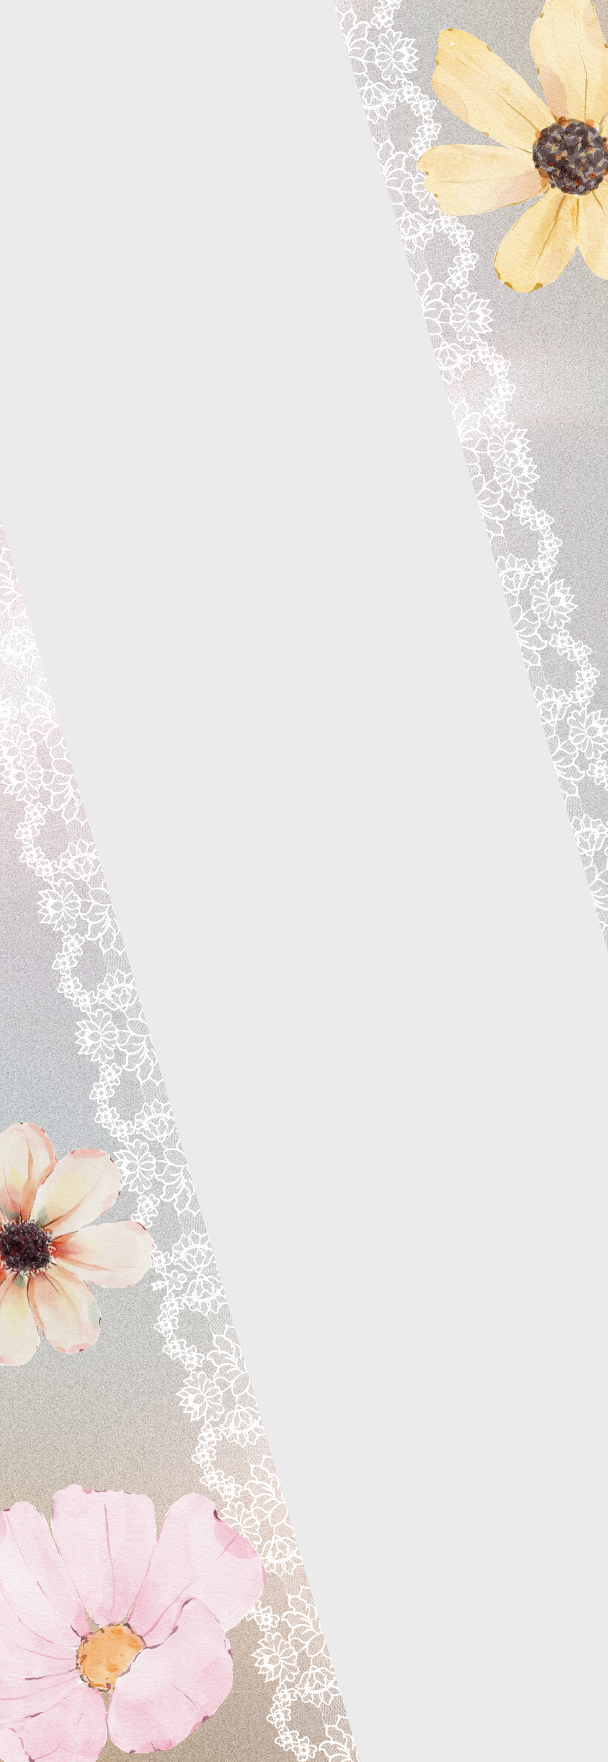
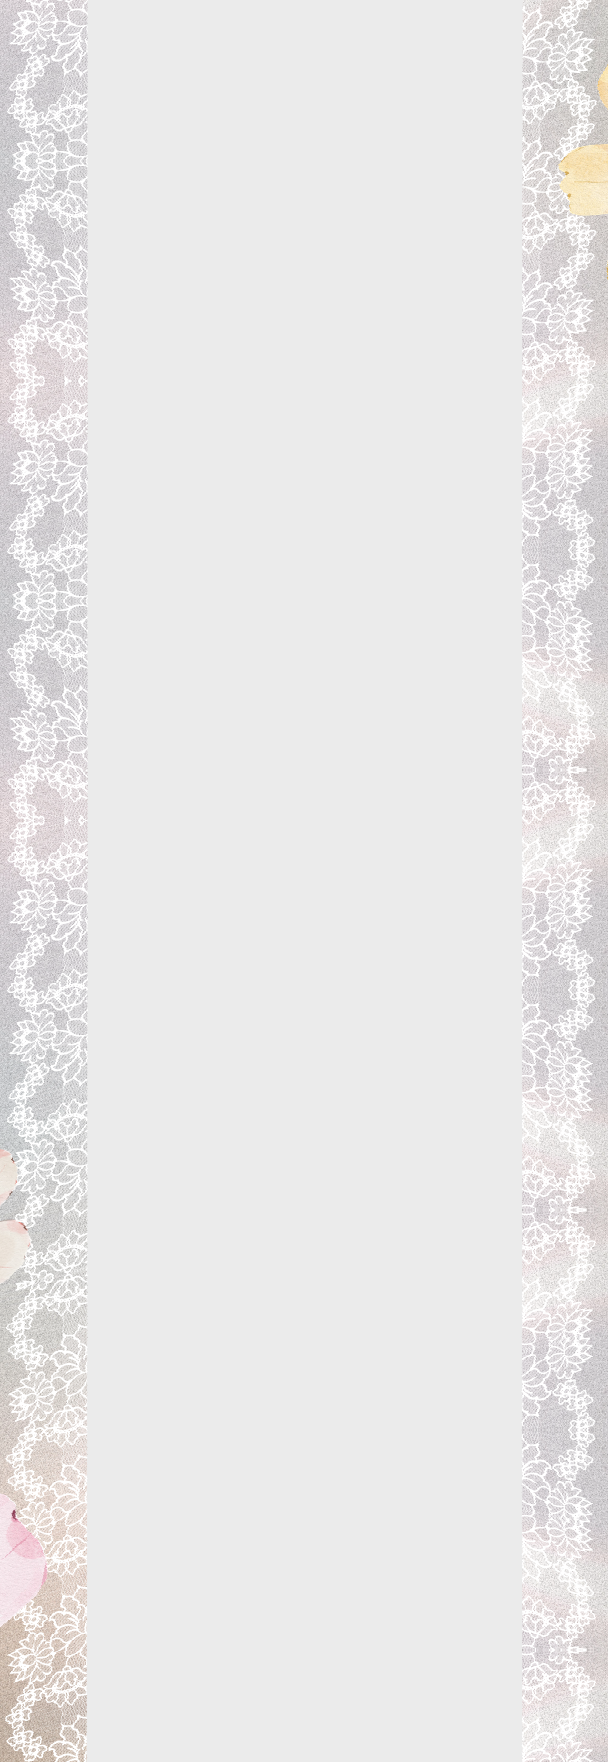
feat: convert Lace Jardin photobooth strip from angled to vertical layout

Changed region(s): [[0.0, 0.0, 0.5938, 1.0], [0.5625, 0.0, 1.0, 1.0], [0.875, 0.9989, 0.9375, 1.0]]

diff --git a/src/components/Photobooth/stripThemes.ts b/src/components/Photobooth/stripThemes.ts
@@ -172,13 +172,13 @@ export const PHOTOBOOTH_STRIP_THEMES: PhotoboothStripTheme[] = [
   {
     id: 'lace-jardin',
     name: 'Lacé Jardin',
-    subtitle: 'French Lace Cutout & Angled Strips',
+    subtitle: 'French Lace Cutout & Vertical Strip',
     badge: 'Coquette Lace',
     icon: '💐',
     slotCount: 4,
     width: 608,
     height: 1762,
-    backgroundUrl: '/assets/photobooth/lace-jardin.png',
+    backgroundUrl: '/assets/photobooth/lace-jardin.png?v=2',
     backgroundFit: 'fill',
     bgColor: '#FFFBF7',
     textColor: '#4A3B32',
@@ -187,51 +187,51 @@ export const PHOTOBOOTH_STRIP_THEMES: PhotoboothStripTheme[] = [
     slots: [
       {
         id: 'slot-1',
-        x: -48,
-        y: -15,
-        width: 410,
-        height: 390,
-        rotation: -16.1995,
+        x: 108,
+        y: 45,
+        width: 392,
+        height: 345,
+        rotation: 0,
         borderRadius: 4,
       },
       {
         id: 'slot-2',
-        x: 68,
-        y: 385,
-        width: 410,
-        height: 390,
-        rotation: -16.1995,
+        x: 108,
+        y: 412,
+        width: 392,
+        height: 345,
+        rotation: 0,
         borderRadius: 4,
       },
       {
         id: 'slot-3',
-        x: 184,
-        y: 785,
-        width: 410,
-        height: 390,
-        rotation: -16.1995,
+        x: 108,
+        y: 779,
+        width: 392,
+        height: 345,
+        rotation: 0,
         borderRadius: 4,
       },
       {
         id: 'slot-4',
-        x: 300,
-        y: 1185,
-        width: 410,
-        height: 390,
-        rotation: -16.1995,
+        x: 108,
+        y: 1146,
+        width: 392,
+        height: 345,
+        rotation: 0,
         borderRadius: 4,
       },
     ],
     textBlocks: [
       {
         id: 'event-tagline',
-        x: 280,
-        y: 1595,
-        width: 320,
-        height: 24,
-        rotation: -16.1995,
+        x: 108,
+        y: 1538,
+        width: 392,
+        height: 28,
+        rotation: 0,
         fontFamily: "'Cinzel', Georgia, serif",
-        fontSize: 13,
+        fontSize: 16,
         fontWeight: 600,
         color: '#6B5A4E',
         align: 'center',
@@ -240,13 +240,13 @@ export const PHOTOBOOTH_STRIP_THEMES: PhotoboothStripTheme[] = [
       },
       {
         id: 'couple-name',
-        x: 285,
-        y: 1625,
-        width: 320,
-        height: 44,
-        rotation: -16.1995,
+        x: 108,
+        y: 1576,
+        width: 392,
+        height: 54,
+        rotation: 0,
         fontFamily: "'Dancing Script', cursive",
-        fontSize: 34,
+        fontSize: 40,
         fontWeight: 700,
         color: '#3B2D24',
         align: 'center',
@@ -255,13 +255,13 @@ export const PHOTOBOOTH_STRIP_THEMES: PhotoboothStripTheme[] = [
       },
       {
         id: 'event-date',
-        x: 295,
-        y: 1676,
-        width: 320,
-        height: 26,
-        rotation: -16.1995,
+        x: 108,
+        y: 1644,
+        width: 392,
+        height: 30,
+        rotation: 0,
         fontFamily: "'Cinzel', Georgia, serif",
-        fontSize: 15,
+        fontSize: 18,
         fontWeight: 600,
         color: '#5C4B3E',
         align: 'center',
